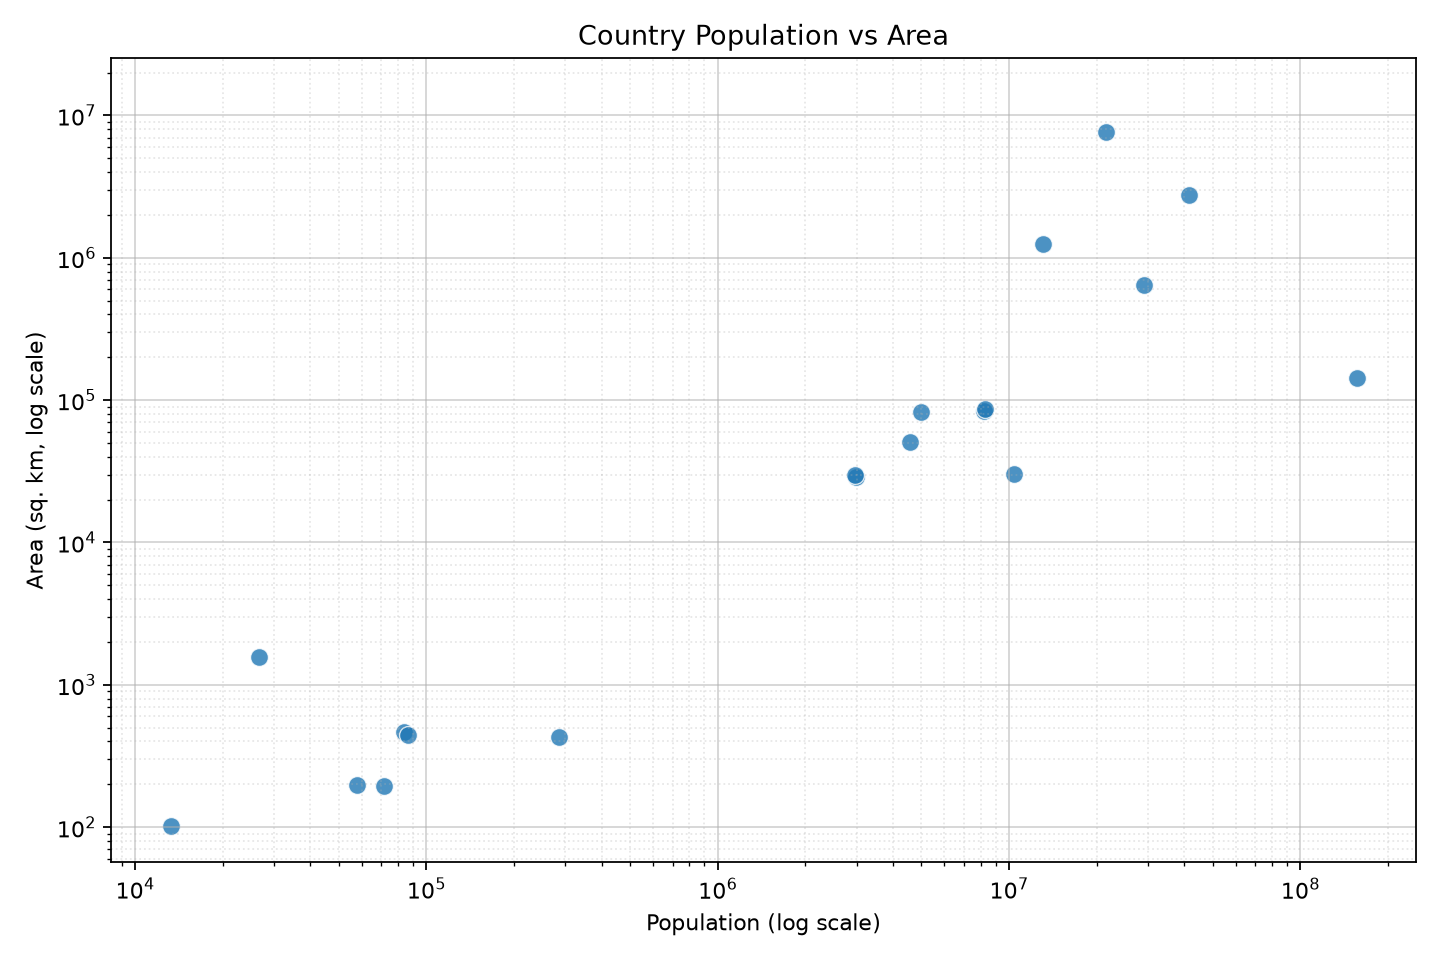
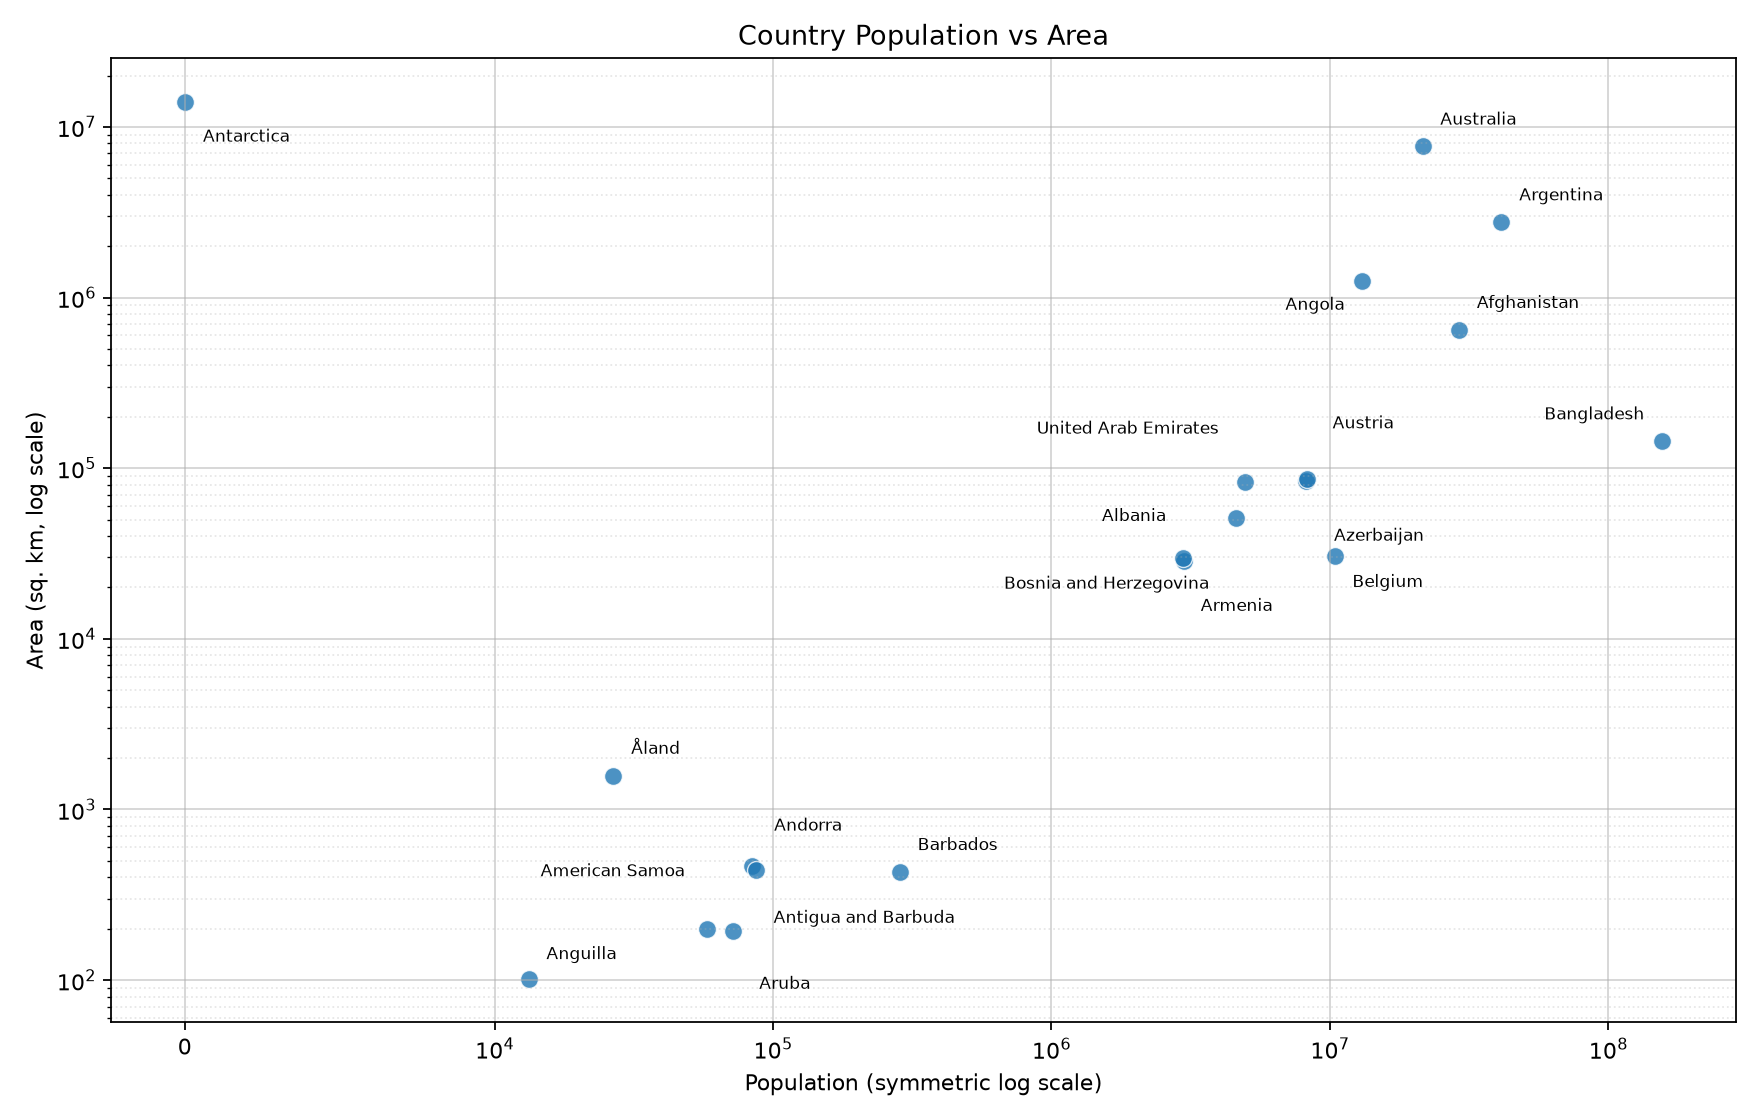
Adding Legends & rescaling the visualization

diff --git a/visualization.py b/visualization.py
@@ -4,17 +4,40 @@ from pathlib import Path
 
 import matplotlib.pyplot as plt
 import pandas as pd
+from matplotlib.ticker import LogFormatterMathtext, LogLocator
 
 
 PROJECT_FOLDER = Path(__file__).resolve().parent
 CSV_FILE = PROJECT_FOLDER / "exported_countries.csv"
 PLOT_FILE = PROJECT_FOLDER / "population_vs_area.png"
+LABEL_OFFSETS = {
+    "Andorra": (10, 14),
+    "United Arab Emirates": (-12, 20),
+    "Afghanistan": (8, 8),
+    "Antigua and Barbuda": (8, -18),
+    "Anguilla": (8, 7),
+    "Albania": (-8, 16),
+    "Armenia": (8, -18),
+    "Angola": (-8, -7),
+    "Antarctica": (8, -12),
+    "Argentina": (8, 8),
+    "American Samoa": (-10, 22),
+    "Austria": (12, 22),
+    "Australia": (8, 8),
+    "Aruba": (12, -20),
+    "Åland": (8, 8),
+    "Azerbaijan": (12, -22),
+    "Bosnia and Herzegovina": (-12, -26),
+    "Barbados": (8, 8),
+    "Bangladesh": (-8, 8),
+    "Belgium": (8, -8),
+}
 
 
 def create_scatter_plot():
     country_dataframe = pd.read_csv(CSV_FILE)
 
-    figure, axis = plt.subplots(figsize=(9, 6))
+    figure, axis = plt.subplots(figsize=(11, 7))
     axis.scatter(
         country_dataframe["population"],
         country_dataframe["area"],
@@ -24,18 +47,37 @@ def create_scatter_plot():
         linewidth=0.6,
     )
 
-    # Log scales keep smaller countries visible alongside the largest outliers.
-    axis.set_xscale("log")
+    # Label each point with its country name; offsets separate nearby records.
+    for _, country in country_dataframe.iterrows():
+        country_name = country["country_name"]
+        offset_x, offset_y = LABEL_OFFSETS.get(country_name, (7, 7))
+        horizontal_alignment = "left" if offset_x > 0 else "right"
+        vertical_alignment = "bottom" if offset_y > 0 else "top"
+        axis.annotate(
+            country_name,
+            (country["population"], country["area"]),
+            xytext=(offset_x, offset_y),
+            textcoords="offset points",
+            ha=horizontal_alignment,
+            va=vertical_alignment,
+            fontsize=7.5,
+        )
+
+    # Symmetric-log keeps a zero population visible while compressing large values.
+    axis.set_xscale("symlog", linthresh=10_000)
     axis.set_yscale("log")
+    axis.yaxis.set_major_locator(LogLocator(base=10))
+    axis.yaxis.set_major_formatter(LogFormatterMathtext(base=10))
     axis.set_title("Country Population vs Area")
-    axis.set_xlabel("Population (log scale)")
+    axis.set_xlabel("Population (symmetric log scale)")
     axis.set_ylabel("Area (sq. km, log scale)")
     axis.grid(True, which="major", alpha=0.55)
     axis.grid(True, which="minor", linestyle=":", alpha=0.3)
     figure.tight_layout()
     figure.savefig(PLOT_FILE, dpi=160)
     print(f"Saved {PLOT_FILE.name}")
-    plt.show()
+    if "agg" not in plt.get_backend().lower():
+        plt.show()
 
 
 if __name__ == "__main__":
